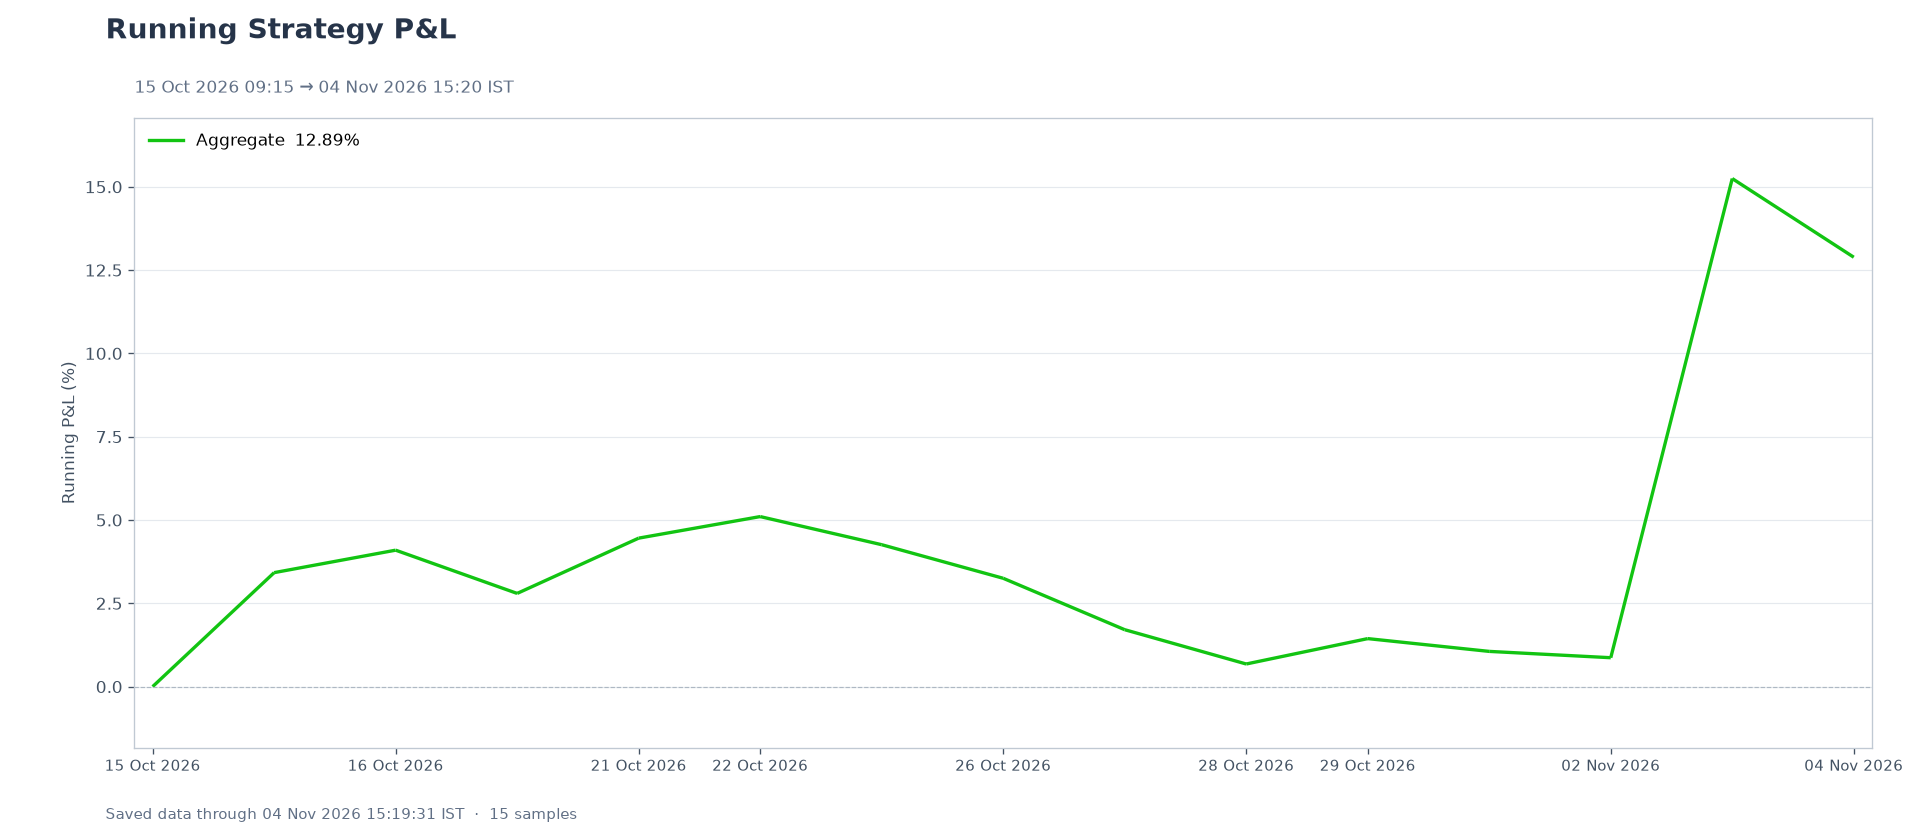
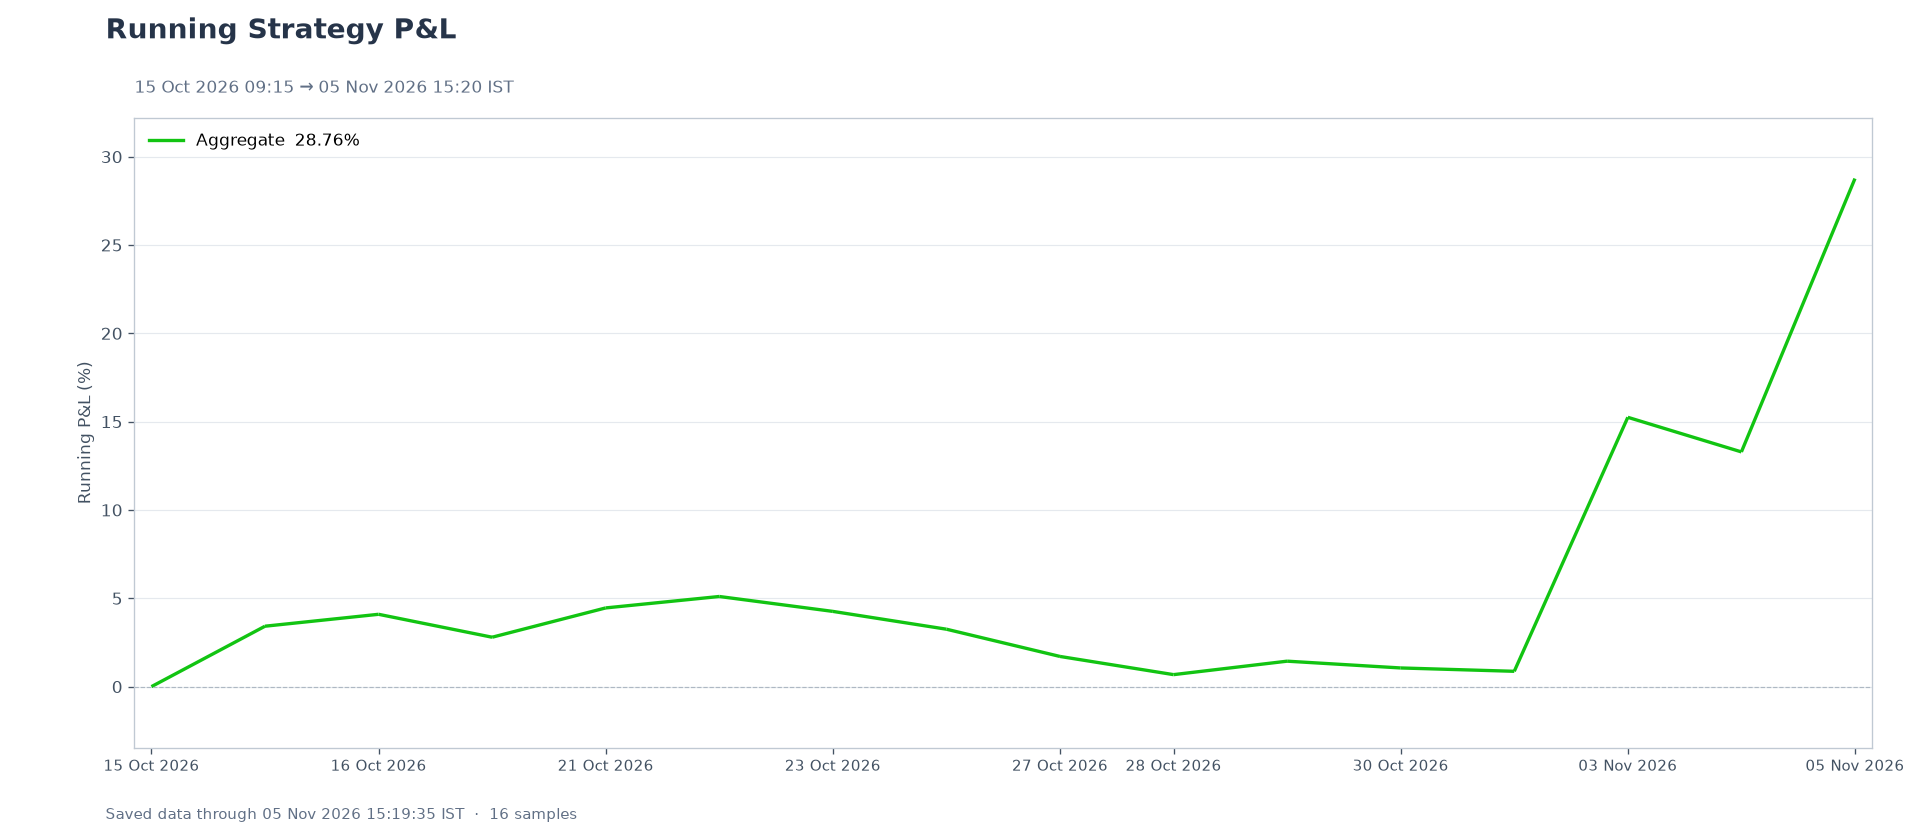
Nabz report 2026-11-05

diff --git a/content/daily/20261105.md b/content/daily/20261105.md
@@ -1,0 +1,9 @@
+---
+title: "20261105"
+date: 2026-11-05T15:20:00+05:30
+slug: "20261105"
+folder: "20261105"
+iso_date: "2026-11-05"
+preview: false
+strategy_today: "1520-start0830-strategy-today-REL.png"
+---

diff --git a/content/i/2981c3562265044d6bd7.md b/content/i/2981c3562265044d6bd7.md
@@ -1,0 +1,4 @@
+---
+title: "Today's P&L"
+image: "i/2981c3562265044d6bd7.png"
+---
